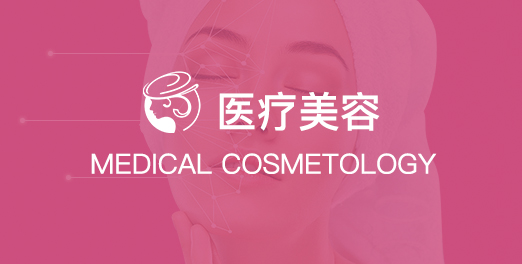
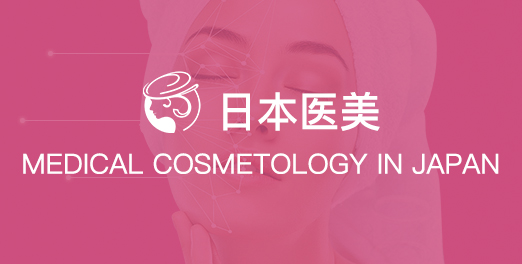
udpate

Changed region(s): [[0.0307, 0.5758, 0.9808, 0.6667], [0.3985, 0.3333, 0.7356, 0.5152]]

diff --git a/config/in.js b/config/in.js
@@ -4,8 +4,8 @@ window.language = {
 	anti_aging_care_beauty: '抗衰老护理、美颜',
 	beauty_medical_equipment: "美容医疗器械",
 	injection_therapy: "注射治疗",
-	taipu_services_cosmetology: "泰璞健康提供的医疗美容服务",
-	taipu_services_regenerate: "泰璞健康提供的再生医疗服务",
+	taipu_services_cosmetology: "泰璞健康提供的赴日医美服务",
+	taipu_services_regenerate: "泰璞健康提供的赴日医疗服务",
 	taipu_services_examination: "泰璞健康提供的赴日体检服务",
 
 	server_line: "服务专线",
